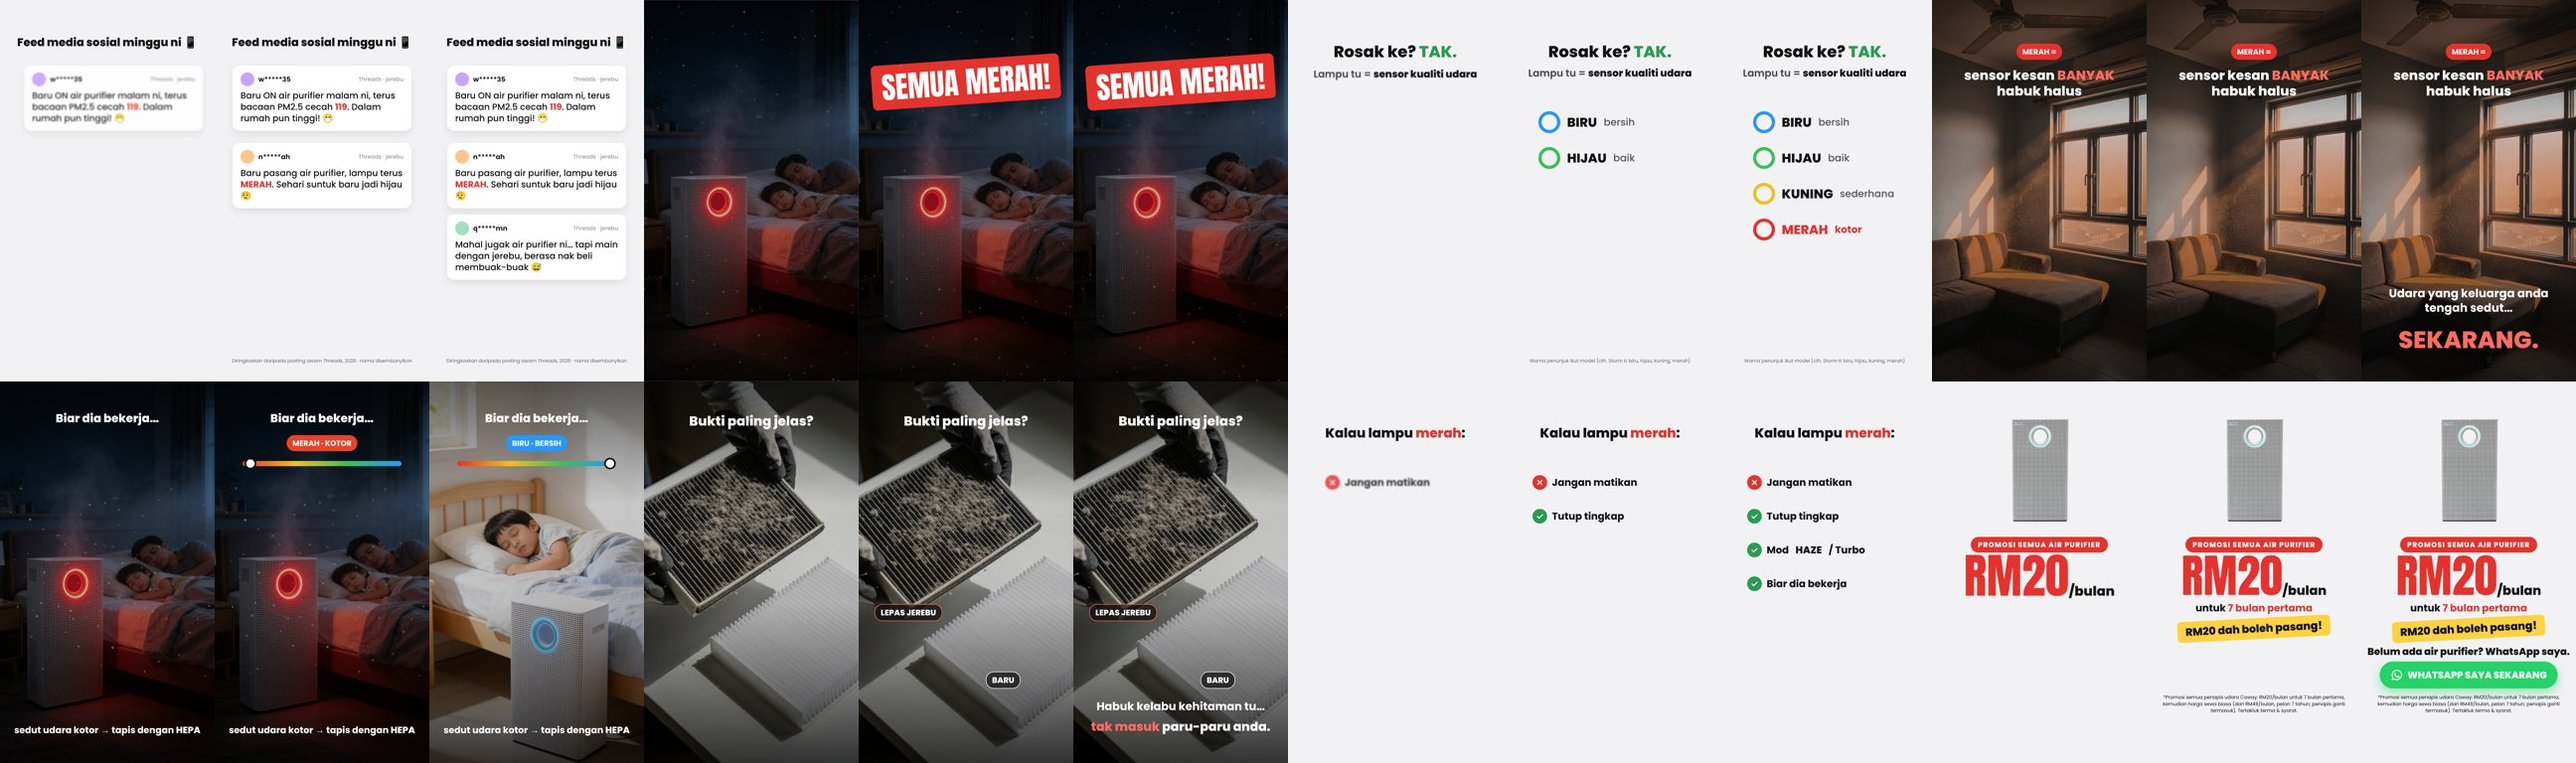
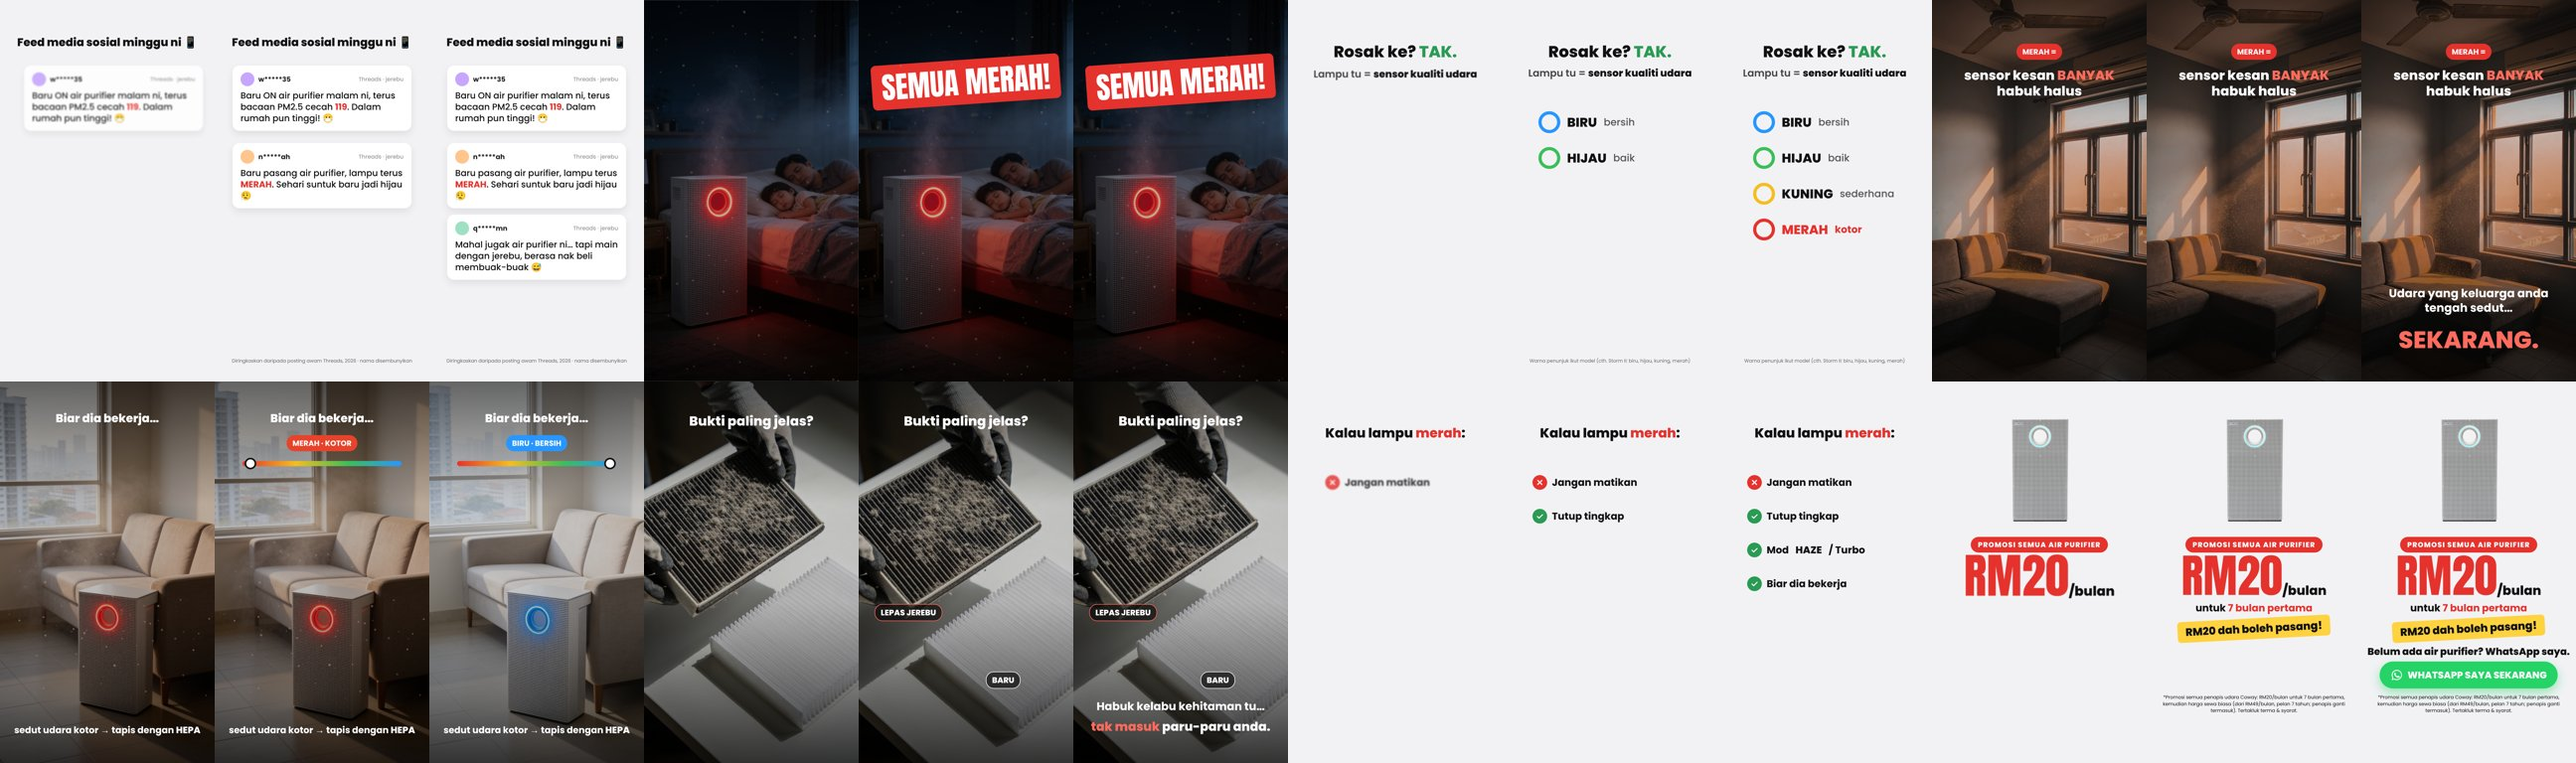
Replace overused photos: no image used more than twice across the 12 videos
New Seedream images R13-R19, R21 (hazy/clear street pair, closing window,
apartment family in haze, red->blue living-room pair, mother checking red
ring, bedroom with blue ring, family evening) swapped into J2, J4, J6, M1.

Claude-Session: https://claude.ai/code/session_01CXwDjubsrfrRtpTArAnt2J

Changed region(s): [[0.0, 0.5, 0.25, 1.0]]

diff --git a/src/jerebu/j4_tips.html b/src/jerebu/j4_tips.html
@@ -25,7 +25,7 @@
 
   <!-- 0: intro -->
   <div class="scene">
-    <script>document.write(K.card('R05.jpg', 150, 140, 780, 800, { pos: '40% 55%' }))</script>
+    <script>document.write(K.card('R18.jpg', 150, 140, 780, 800, { pos: '60% 60%' }))</script>
     <div class="el c" style="top:980px; font-size:58px; font-weight:700; line-height:1.2" data-in="10%" data-a="up">Dah ada air purifier,<br>tapi lampu masih <span class="no">merah?</span></div>
     <div class="el c" style="top:1200px; font-size:46px; font-weight:500; color:#2f5553" data-in="40%" data-a="up">Mungkin cara guna tak betul.</div>
     <div class="el c" style="top:1310px" data-in="62%" data-a="stamp"><span style="display:inline-block; background:#0E8C83; color:#fff; font-family:Anton; font-size:120px; padding:0 50px; border-radius:24px; transform:rotate(-3deg)">6 TIPS MASA JEREBU</span></div>
@@ -35,7 +35,7 @@
   <div class="scene">
     <div class="el c n" style="top:200px" data-in="0" data-a="slam">01</div>
     <div class="el c tip" style="top:540px" data-in="10%" data-a="up">Tutup tingkap<br>&amp; pintu</div>
-    <script>document.write(K.card('R02.jpg', 110, 790, 860, 500, { pos: '50% 45%', in: '20%' }))</script>
+    <script>document.write(K.card('R14.jpg', 110, 790, 860, 500, { pos: '50% 40%', in: '20%' }))</script>
     <div class="el c sub" style="top:1330px" data-in="50%" data-a="up">Air purifier bukan untuk tapis<br>udara <b>satu taman</b> 🏘</div>
   </div>
 
@@ -43,7 +43,7 @@
   <div class="scene">
     <div class="el c n" style="top:200px" data-in="0" data-a="slam">02</div>
     <div class="el c tip" style="top:540px" data-in="8%" data-a="up">Letak di bilik paling<br>lama anda duduk</div>
-    <script>document.write(K.card('R06.jpg', 90, 800, 430, 560, { pos: '50% 50%', in: '30%' }) + K.card('R12.jpg', 560, 800, 430, 560, { pos: '45% 55%', in: '45%' }))</script>
+    <script>document.write(K.card('R19.jpg', 90, 800, 430, 560, { pos: '60% 50%', in: '30%' }) + K.card('R12.jpg', 560, 800, 430, 560, { pos: '45% 55%', in: '45%' }))</script>
     <div class="el" style="top:1280px; left:110px" data-in="30%" data-a="up"><span class="chip">🛏 Bilik tidur</span></div>
     <div class="el" style="top:1280px; left:580px" data-in="45%" data-a="up"><span class="chip">🛋 Ruang tamu</span></div>
     <div class="el c" style="top:1420px" data-in="75%" data-a="stamp"><span class="chip" style="background:#0E8C83; color:#fff; font-size:56px">👶 Bilik anak, UTAMAKAN</span></div>

diff --git a/src/jerebu/j2_kenapa_merah.html b/src/jerebu/j2_kenapa_merah.html
@@ -71,7 +71,7 @@
 
   <!-- 4: merah -> biru -->
   <div class="scene onph">
-    <script>document.write(K.photo('R05.jpg') + K.photo('R06.jpg', { id: 'ph6', a: 'cut' }))</script>
+    <script>document.write(K.photo('R16.jpg') + K.photo('R17.jpg', { id: 'ph6', a: 'cut' }))</script>
     <div class="el c" style="top:150px; font-size:58px; font-weight:800; line-height:1.2" data-in="0" data-a="up">Biar dia bekerja…</div>
     <div class="el c" style="top:270px" data-in="45%" data-a="pop"><span class="tag" id="lvTag">MERAH · KOTOR</span></div>
     <div class="el" style="top:400px; left:140px; width:800px; height:26px; border-radius:13px; background:linear-gradient(90deg,#E5322D,#f5be1e,#3cbe5a,#2896ff)" data-in="45%" data-a="fade"></div>
@@ -110,7 +110,7 @@
     if (t >= s1.s && t < s1.e + .4) K.haze(ctx, t, { n: 160, color: '170,150,130', alpha: .3, size: 4, speed: 30 });
     if (t >= s4.s - .2 && t < s4.e + .4) {
       const lv = 3 * Engine.p(t, K.at(4, .45), K.at(4, 1) + .2, Engine.E.inOut);
-      K.haze(ctx, t, { mode: 'suck', x: 380, y: 1010, box: [0, 500, 1080, 1000], spread: 60, n: 150, density: 1 - lv / 2, color: '170,150,130', alpha: .6, size: 4, period: 1.7 });
+      K.haze(ctx, t, { mode: 'suck', x: 540, y: 1170, box: [0, 500, 1080, 1100], spread: 60, n: 150, density: 1 - lv / 2, color: '170,150,130', alpha: .6, size: 4, period: 1.7 });
       document.getElementById('ph6').style.opacity = Engine.p(lv, 1.2, 2.4, Engine.E.inOut);
       const tag = document.getElementById('lvTag'); tag.textContent = K.ringName(lv); tag.style.background = K.ring(lv);
       document.getElementById('lvDot').style.left = (120 + 760 * lv / 3) + 'px';

diff --git a/src/jerebu/j6_lepas_jerebu.html b/src/jerebu/j6_lepas_jerebu.html
@@ -30,7 +30,7 @@
 
   <!-- 1: 3 tempat -->
   <div class="scene">
-    <script>document.write(K.photo('R01.jpg') + K.photo('R04.jpg', { id: 'ph4', a: 'cut' }))</script>
+    <script>document.write(K.photo('R13.jpg') + K.photo('R04.jpg', { id: 'ph4', a: 'cut' }))</script>
     <div class="el c" style="top:260px; font-size:56px; font-weight:700" data-in="0" data-a="up">Soalan yang adil.</div>
     <div class="el c" style="top:360px; font-size:46px; font-weight:500; opacity:.85" data-in="20%" data-a="up">Tapi jerebu cuma <b>satu</b> sebab.</div>
     <div class="el c big y" style="top:560px; font-size:270px; white-space:nowrap" data-in="45%" data-a="slam">3 TEMPAT</div>

diff --git a/src/jerebu/m1_storm2.html b/src/jerebu/m1_storm2.html
@@ -18,7 +18,7 @@
  "scenes": [
   {
    "type": "story",
-   "photo": "R02.jpg",
+   "photo": "R15.jpg",
    "lines": [
     "Tinggal di kawasan jerebu?",
     "Tingkap tutup pun, rumah masih bau asap."
@@ -97,7 +97,7 @@
   },
   {
    "type": "fit",
-   "photo": "R12.jpg",
+   "photo": "R21.jpg",
    "chips": [
     "Ruang tamu apartmen",
     "Bilik besar",
